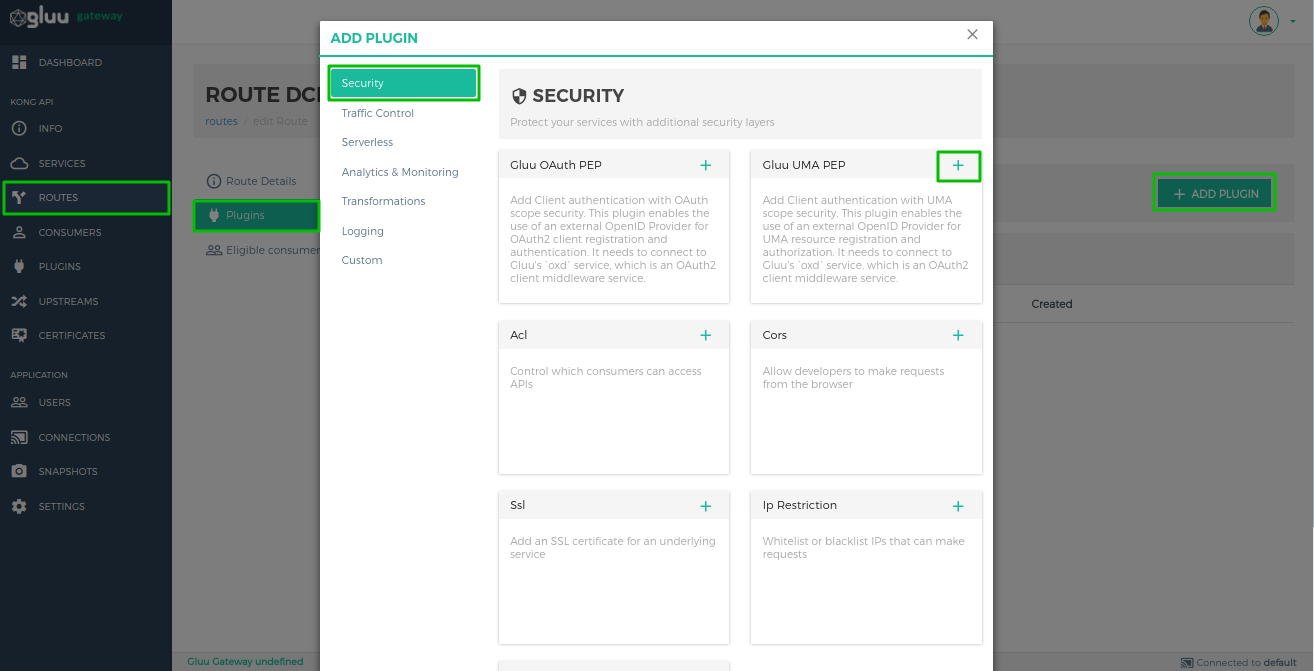
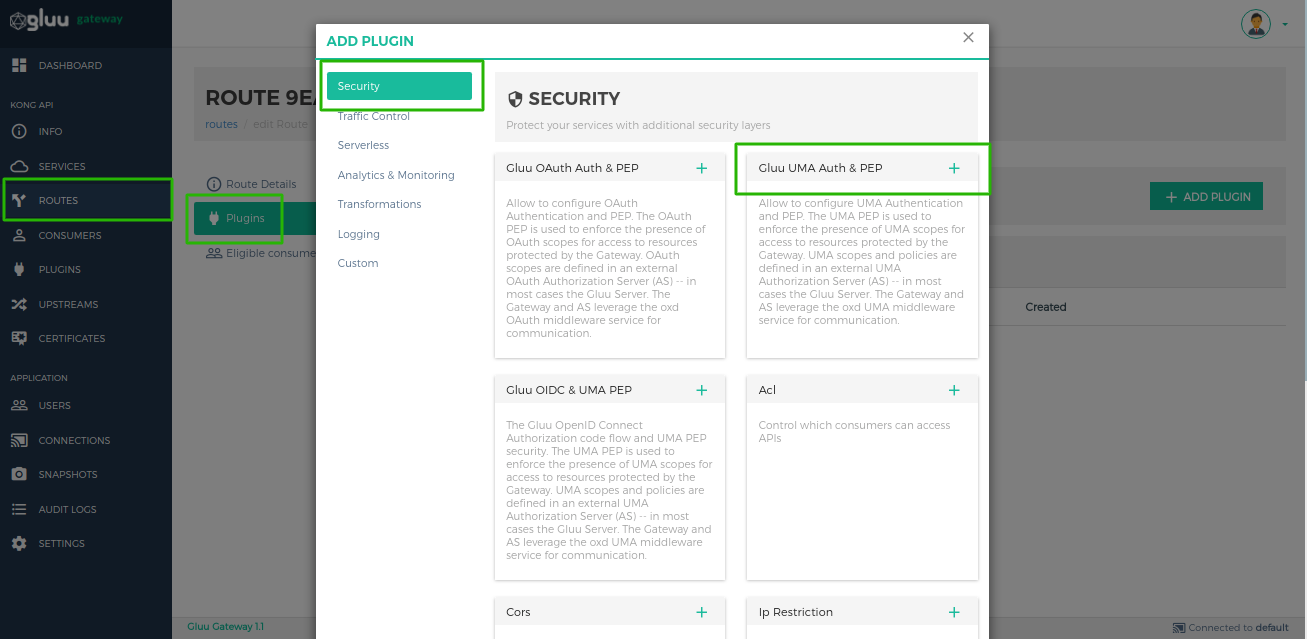
Update gluu oauth auth and oauth pep section

diff --git a/docs/source/plugin/gluu-uma-auth-pep.md b/docs/source/plugin/gluu-uma-auth-pep.md
@@ -1,6 +1,11 @@
-# Gluu UMA PEP
+# Gluu UMA Auth and UMA PEP
 ## Overview
-The UMA PEP plugin is used to enforce the presence of UMA scopes for access to resources protected by the Gateway. UMA scopes and policies are defined in an external UMA Authorization Server (AS) -- in most cases the Gluu Server. The Gateway and AS leverage the oxd UMA middleware service for communication. 
+The UMA Auth and UMA PEP is used client authentication and to enforce the presence of UMA scopes for access to resources protected by the Gateway. UMA scopes and policies are defined in an external UMA Authorization Server (AS) -- in most cases the Gluu Server. The Gateway and AS leverage the oxd UMA middleware service for communication. 
+
+There are two plugins for OAuth security.
+
+   1. **gluu-uma-auth**: Authenticate client by UMA RPT Token. The plugin priority is `998`.
+   1. **gluu-uma-pep**: Authorization by UMA Scope security. The plugin priority is `995`.
 
 The plugin supports two tokens:  
 
@@ -44,9 +49,36 @@ Use the [Manage Service](../admin-gui/#manage-service) section in GG UI to enabl
 ![11_path_uma_service](../img/11_path_uma_service.png)
 
 Clicking on the **+** icon will bring up the below form.
-![11_path_add_uma_service](../img/11_path_add_uma_service.png)
+
+!!! Important
+    You need to set the `Anonymous` consumer because it is used to by pass gluu-uma-auth authentication and help to get the ticket from gluu-uma-pep. In below form use `+` button front on anonymous field to add and configure consumer. You just need to copy consumer id and past it to anonymous field.
+
+![11_path_add_uma_service](../img/uma-auth-pep-form.png)
 
 #### Configure Service Plugin using Kong Admin API
+
+Configuration for `gluu-uma-auth`
+
+```
+$ curl -X POST \
+  http://<kong_hostname>:8001/plugins \
+  -H 'Content-Type: application/json' \
+  -d '{
+  "name": "gluu-uma-auth",
+  "config": {
+    "oxd_url": "<your_oxd_server_url>",
+    "op_url": "<your_op_server_url>",
+    "oxd_id": "<oxd_id>",
+    "client_id": "<client_id>",
+    "client_secret": "<client_secret>",
+    "hide_credentials": <false|true>,
+    "anonymous": "<anonymous_consumer_id>"
+  },
+  "service_id": "<kong_service_object_id>"
+}'
+```
+
+Configuration for `gluu-uma-pep`
 
 ```
 $ curl -X POST \
@@ -67,34 +99,19 @@ $ curl -X POST \
           {
             "httpMethods": [
               "GET"
-            ],
-            "scope_expression": {
-              "rule": {
-                "and": [
-                  {
-                    "var": 0
-                  },
-                  {
-                    "var": 1
-                  }
-                ]
-              },
-              "data": [
-                "admin",
-                "employee"
-              ]
-            }
+            ]
           }
         ]
       }
     ],
-    "ignore_scope": <false|true>,
-    "deny_by_default": <false|true>,
-    "hide_credentials": <false|true>
+    "deny_by_default": <false|true>
   },
   "service_id": "<kong_service_object_id>"
 }'
 ```
+
+!!! Note
+    Plugin don't need `scope_expression` inside `conditions` because rule and expression is check and register at AS side. 
 
 !!! Note
     Kong does not allow proxying using only a service object--this feature requires a route. At minimum, one service is needed to register an Upstream API and one route is needed for proxying.
@@ -133,9 +150,32 @@ Use the [Manage Route](../admin-gui/#manage-route) section in the GG UI to enabl
 ![12_path_uma_route](../img/12_path_uma_route.png)
 
 Clicking on the **+** icon will bring up the below form.
-![12_path_add_uma_route](../img/12_path_add_uma_route.png)
+![12_path_add_uma_route](../img/uma-auth-pep-form.png)
 
 #### Configure Route Plugin using Kong Admin API
+
+Configuration for `gluu-uma-auth`
+
+```
+$ curl -X POST \
+  http://<kong_hostname>:8001/plugins \
+  -H 'Content-Type: application/json' \
+  -d '{
+  "name": "gluu-uma-auth",
+  "config": {
+    "oxd_url": "<your_oxd_server_url>",
+    "op_url": "<your_op_server_url>",
+    "oxd_id": "<oxd_id>",
+    "client_id": "<client_id>",
+    "client_secret": "<client_secret>",
+    "hide_credentials": <false|true>,
+    "anonymous": "<anonymous_consumer_id>"
+  },
+  "route_id": "<kong_service_object_id>"
+}'
+```
+
+Configuration for `gluu-uma-pep`
 
 ```
 $ curl -X POST \
@@ -156,32 +196,14 @@ $ curl -X POST \
           {
             "httpMethods": [
               "GET"
-            ],
-            "scope_expression": {
-              "rule": {
-                "and": [
-                  {
-                    "var": 0
-                  },
-                  {
-                    "var": 1
-                  }
-                ]
-              },
-              "data": [
-                "admin",
-                "employee"
-              ]
-            }
+            ]
           }
         ]
       }
     ],
-    "ignore_scope": <false|true>,
-    "deny_by_default": <false|true>,
-    "hide_credentials": <false|true>
+    "deny_by_default": <false|true>
   },
-  "route_id": "<kong_route_object_id>"
+  "route_id": "<kong_service_object_id>"
 }'
 ```
 
@@ -193,12 +215,32 @@ A global plugin will apply to all services and routes.
 
 Use the [Plugin section](../admin-gui/#add-plugin) in the GG UI to enable the Gluu UMA PEP plugin. In the security category, there is a Gluu UMA PEP box. Click on the **+** icon to enable the plugin.
 
-![5_plugins_add](../img/5_plugins_add.png)
+![5_plugins_add](../img/5_uma_plugins_add.png)
 
 Clicking on the **+** icon will bring up the below form.
-![11_path_add_uma_service](../img/12_path_add_uma_route.png)
+![11_path_add_uma_service](../img/uma-auth-pep-form.png)
 
 #### Configure Global Plugin using Kong Admin API
+
+```
+$ curl -X POST \
+  http://<kong_hostname>:8001/plugins \
+  -H 'Content-Type: application/json' \
+  -d '{
+  "name": "gluu-uma-auth",
+  "config": {
+    "oxd_url": "<your_oxd_server_url>",
+    "op_url": "<your_op_server_url>",
+    "oxd_id": "<oxd_id>",
+    "client_id": "<client_id>",
+    "client_secret": "<client_secret>",
+    "hide_credentials": <false|true>,
+    "anonymous": "<anonymous_consumer_id>"
+  }
+}'
+```
+
+Configuration for `gluu-uma-pep`
 
 ```
 $ curl -X POST \
@@ -219,30 +261,12 @@ $ curl -X POST \
           {
             "httpMethods": [
               "GET"
-            ],
-            "scope_expression": {
-              "rule": {
-                "and": [
-                  {
-                    "var": 0
-                  },
-                  {
-                    "var": 1
-                  }
-                ]
-              },
-              "data": [
-                "admin",
-                "employee"
-              ]
-            }
+            ]
           }
         ]
       }
     ],
-    "ignore_scope": <false|true>,
-    "deny_by_default": <false|true>,
-    "hide_credentials": <false|true>
+    "deny_by_default": <false|true>
   }
 }'
 ```
@@ -250,6 +274,20 @@ $ curl -X POST \
 ### Parameters
 
 Here is a list of all the parameters which can be used in this plugin's configuration.
+
+#### Gluu-UMA-Auth
+
+| field | Default | Description |
+|-------|---------|-------------|
+|**op_url**||The URL of your OP server. Example: https://op.server.com|
+|**oxd_url**||The URL of your oxd server. Example: https://oxd.server.com|
+|**oxd_id**|| The ID for an existing client, used to introspect the token. If left blank, a new client will be registered dynamically |
+|**client_id**|| An existing client ID, used to get a protection access token to access the introspection API. Required if an existing oxd ID is provided.|
+|**client_secret**|| An existing client secret, used to get protection access token to access the introspection API. Required if an existing oxd ID is provided.|
+|**anonymous**||An required string (consumer Id) value to use as an “anonymous” consumer if authentication fails. You need to set the Anonymous consumer because it is used to by pass gluu-uma-auth authentication and help to get the ticket from gluu-uma-pep. |
+|**hide_credentials**|false|An optional boolean value telling the plugin to show or hide the credential from the upstream service. If true, the plugin will strip the credential from the request (i.e. the Authorization header) before proxying it.|
+
+#### Gluu-UMA-PEP 
 
 | field | Default | Description |
 |-------|---------|-------------|
@@ -259,10 +297,13 @@ Here is a list of all the parameters which can be used in this plugin's configur
 |**client_id**|| An existing client ID, used to get a protection access token to access the introspection API. Required if an existing oxd ID is provided.|
 |**client_secret**|| An existing client secret, used to get protection access token to access the introspection API. Required if an existing oxd ID is provided.|
 |**uma_scope_expression**|| Used to add scope security on an UMA scope token.|
-|**ignore_scope**| false | If true, will not check any token scopes while authenticating.|
 |**deny_by_default**| true | For paths not protected by UMA scope expressions. If true, denies unprotected paths.|
-|**anonymous**||An optional string (consumer UUID) value to use as an “anonymous” consumer if authentication fails. If empty (default), the request will fail with an authentication failure 4xx. This value must refer to the Consumer ID attribute that is internal to Kong, and not its custom_id.|
-|**hide_credentials**|false|An optional boolean value telling the plugin to show or hide the credential from the upstream service. If true, the plugin will strip the credential from the request (i.e. the Authorization header) before proxying it.|
+|**require_id_token**|false|It use when you configure `gluu-openid-connect` plugin. This is for Push Claim token. if it is true then it will use id_token for push claim token for getting RPT|
+|**obtain_rpt**|false|It is used to get RPT when you configure `gluu-openid-connect` plugin with `gluu-uma-pep`|
+|**claims_redirect_path**||It use when you configure `gluu-openid-connect` plugin. Claims redirect URL in claim gathering flow for your OP Client. You just need to set path here like `/claim-callback` but you need to register OP Client with full URL like `https://kong.proxy.com/claim-callback`. GG UI creates OP client for you and also configure the `gluu-openid-connect` and `gluu-uma-pep` plugin.|
+|**redirect_claim_gathering_url**|false|It use when you configure `gluu-openid-connect` plugin. It used to tell plugin that if `need_info` response comes in claim gathering situation then redirect it for claim gathering.|
+|**method_path_tree**||It is for plugin internal use. We use it for tree level matching for dynamic paths which registered in `uma_scope_expression`| 
+
 
 !!! Note
     GG UI can create a dynamic client. However, if the Kong Admin API is used for plugin configuration, it requires an existing client using the oxd API, then passing the client's credentials to the Gluu-UMA-PEP plugin.
@@ -270,9 +311,6 @@ Here is a list of all the parameters which can be used in this plugin's configur
 #### UMA Scope Expression
 
 The UMA Scope Expression is a JSON expression, used to register the resources in a resource server. See more details in the [Gluu Server docs](https://gluu.org/docs/ce/api-guide/uma-api/#uma-permission-registration-api).
-
-!!! Note
-    Enable and disable the UMA scope expression by setting `ignore_scope` to `true`.
 
 For example, to protect an API:
 
@@ -321,34 +359,37 @@ At runtime, the plugin sends a request to the RS with an RPT token and checks th
 
 #### Dynamic Resource Protection
 
-To protect a dynamic resource with UMA or OAuth scopes, secure the parent path. For example, securing `folder` with a chosen scope will secure both `/folder` and `/folder/[id]`. Any protection on the parent will be applied to its children, unless different protection is explicitly defined.
+There are 3 elements to make more dynamic path registration and protection:
 
-Example use cases for different resource security rules:
+- ? match any one path element
+- ?? match zero or more path elements
+- {regexp} - match single path element against PCRE
 
-- Rule1 for path GET /root                  `{scope: a and b}`
+The priority for the elements are:
 
-- Rule2 for path GET /root/folder1          `{scope: c}`
+1. Exact match
+1. Regexp match
+1. ?
+1. ??
 
-- Rule3 for path GET /root/folder1/folder2  `{scope: d}`
+!!! Note
+    slash(/) is required before multiple wildcards placeholder.
+    
+Examples: 
 
-```
-GET /root                                  --> Apply Rule1
-GET /root/1                                --> Apply Rule1
-GET /root/one                              --> Apply Rule1
-GET /root/one/two                          --> Apply Rule1
-GET /root/two?id=df4edfdf                  --> Apply Rule1
+Assume that below all path is register in one plugin
 
-GET /root/folder1                          --> Apply Rule2
-GET /root/folder1/1                        --> Apply Rule2
-GET /root/folder1?id=dfdf454gtfg           --> Apply Rule2
-GET /root/folder1/one/two                  --> Apply Rule2
-GET /root/folder1/one/two/treww?id=w4354f  --> Apply Rule2
+| Register Path | Allow path | Deny path |
+|---------------|------------|-----------|
+| `/folder/file.ext` | <ul><li>/folder/file.ext</li></ul> | <ul><li>/folder/file</li></ul> |
+| `/folder/?/file` | <ul><li>/folder/123/file</li> <li>/folder/xxx/file</li></ul> | |
+| `/path/??` | <ul><li>/path/</li> <li>/path/xxx</li> <li>/path/xxx/yyy/file</li></ul> | <ul><li>/path - Need slash at last</li></ul> |
+| `/path/??/image.jpg` | <ul><li>/path/one/two/image.jpg</li> <li>/path/image.jpg</li></ul> | |
+| `/path/?/image.jpg` | <ul><li>/path/xxx/image.jpg - ? has higher priority than ??</li></ul> | |
+| `/path/{abc|xyz}/image.jpg` | <ul><li>/path/abc/image.jpg</li> <li>/path/xyz/image.jpg</li></ul> | |
+| `/users/?/{todos|photos}` | <ul><li>/users/123/todos</li> <li>/users/xxx/photos</li></ul> | |
+| `/users/?/{todos|photos}/?` | <ul><li>/users/123/todos/</li> <li>/users/123/todos/321</li> <li>/users/123/photos/321</li></ul> | |
 
-GET /root/folder1/folder2/1                --> Apply Rule3
-GET /root/folder1/folder2/one/two          --> Apply Rule3
-GET /root/folder1/folder2/dsd545df         --> Apply Rule3
-GET /root/folder1/folder2/one?id=fdfdf     --> Apply Rule3
-```
 
 ## Usage
 

diff --git a/docs/source/plugin/gluu-openid-connect-uma-pep.md b/docs/source/plugin/gluu-openid-connect-uma-pep.md
@@ -147,7 +147,7 @@ $ curl -X POST \
 
 Here is a list of all the parameters which can be used in this plugin's configuration.
 
-#### gluu-openid-connect 
+#### Gluu-OpenID-Connect
 
 | field | Default | Description |
 |-------|---------|-------------|
@@ -164,7 +164,7 @@ Here is a list of all the parameters which can be used in this plugin's configur
 |**max_id_token_age**||Maximum age of `id token` in seconds |
 |**max_id_token_auth_age**||Maximum authentication age of `id_token` in seconds |
 
-#### gluu-uma-pep 
+#### Gluu-UMA-PEP 
 
 | field | Default | Description |
 |-------|---------|-------------|
@@ -174,7 +174,6 @@ Here is a list of all the parameters which can be used in this plugin's configur
 |**client_id**|| An existing client ID, used to get a protection access token to access the introspection API. Required if an existing oxd ID is provided.|
 |**client_secret**|| An existing client secret, used to get protection access token to access the introspection API. Required if an existing oxd ID is provided.|
 |**uma_scope_expression**|| Used to add scope security on an UMA scope token.|
-|**ignore_scope**| false | If true, will not check any token scopes while authenticating.|
 |**deny_by_default**| true | For paths not protected by UMA scope expressions. If true, denies unprotected paths.|
 |**require_id_token**|false| This is for Push Claim token. if it is true then it will use id_token for push claim token for getting RPT|
 |**obtain_rpt**|false|It is used to get RPT when you configure `gluu-openid-connect` plugin with `gluu-uma-pep`|

diff --git a/docs/source/plugin/gluu-oauth-auth-pep.md b/docs/source/plugin/gluu-oauth-auth-pep.md
@@ -1,6 +1,6 @@
-# Gluu OAuth Auth and PEP
+# Gluu OAuth Auth and OAuth PEP
 ## Overview
-The OAuth Auth and PEP is used for client authentication and to enforce the presence of OAuth scopes for access to resources protected by the Gateway. OAuth scopes are defined in an external OAuth Authorization Server (AS) -- in most cases the Gluu Server. The Gateway and AS leverage the oxd OAuth middleware service for communication.
+The OAuth Auth and OAuth PEP is used for client authentication and to enforce the presence of OAuth scopes for access to resources protected by the Gateway. OAuth scopes are defined in an external OAuth Authorization Server (AS) -- in most cases the Gluu Server. The Gateway and AS leverage the oxd OAuth middleware service for communication.
 
 There are two plugins for OAuth security.
 
